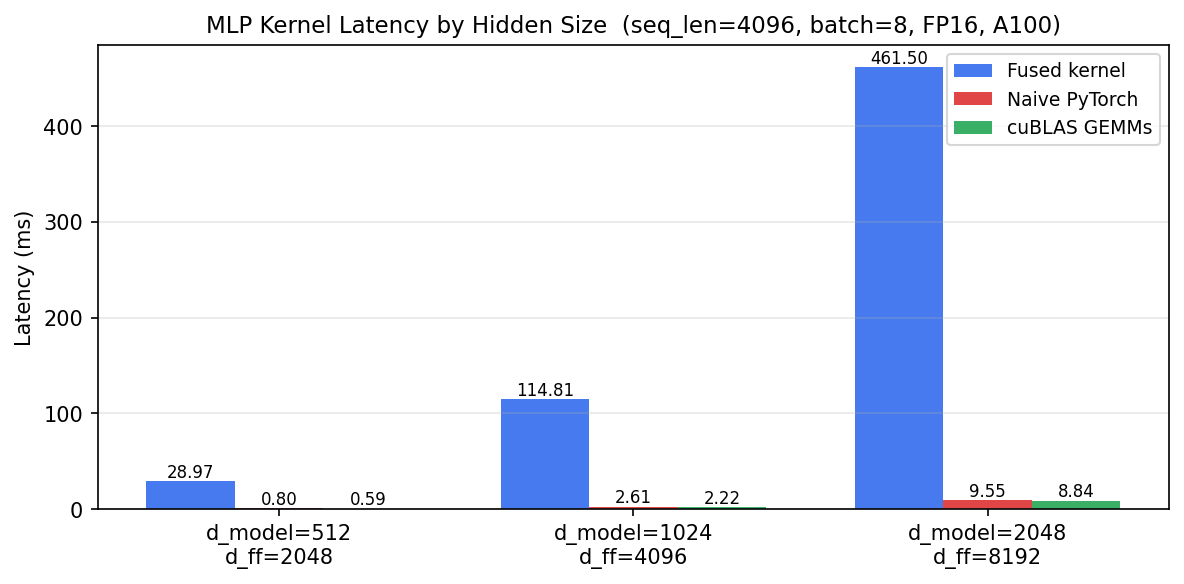
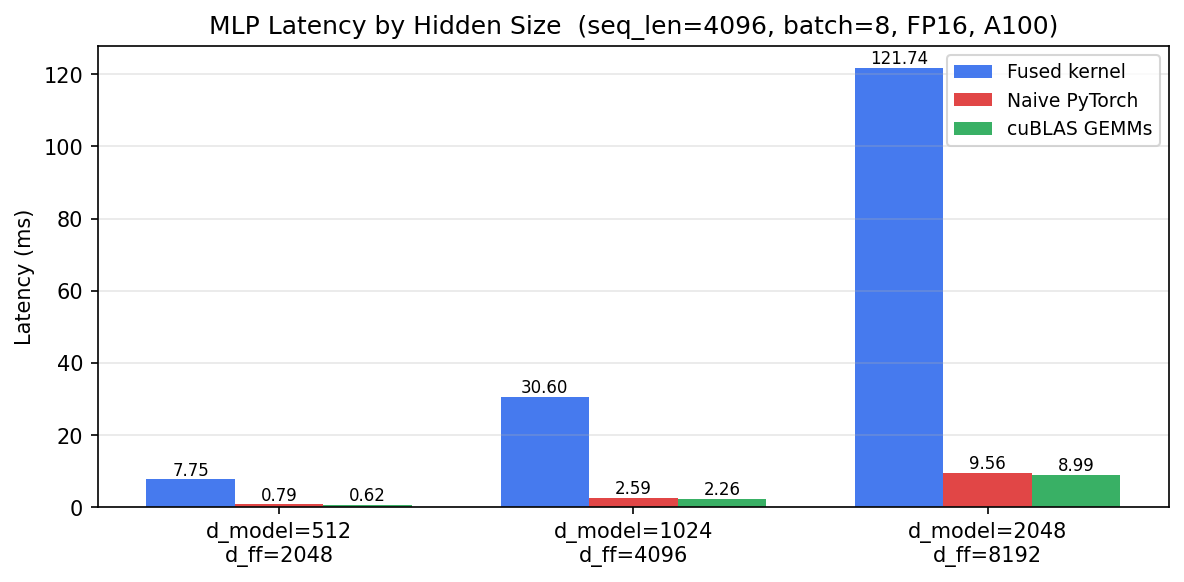
Port MLP kernel to WMMA

diff --git a/tests/test_mlp.py b/tests/test_mlp.py
@@ -10,8 +10,10 @@ naive baseline and cuBLAS (torch.mm).
 import os
 import sys
 import torch
+from torch.utils.cpp_extension import load
 
-sys.path.insert(0, os.path.join(os.path.dirname(__file__), ".."))
+ROOT = os.path.abspath(os.path.join(os.path.dirname(__file__), ".."))
+sys.path.insert(0, ROOT)
 from baseline import mlp_baseline, check_cuda
 from correctness import check_correctness
 from benchmark import benchmark
@@ -30,6 +32,19 @@ def compute_mlp_flops(batch, seq_len, d_model, d_ff):
     return gemm1 + gemm2
 
 
+def load_mlp_ext():
+    kernel_dir = os.path.join(ROOT, "kernels")
+    return load(
+        name="mlp_ext",
+        sources=[
+            os.path.join(kernel_dir, "mlp.cu"),
+            os.path.join(kernel_dir, "mlp_ext.cu"),
+        ],
+        extra_cuda_cflags=["-O3", "--std=c++17", "-arch=sm_80", "--use_fast_math"],
+        verbose=False,
+    )
+
+
 def main():
     check_cuda()
 
@@ -45,14 +60,13 @@ def main():
     # ── Reference ───────────────────────────────────────────────────────
     ref = mlp_baseline(x, W1, W2)
 
+    print("Compiling MLP WMMA extension...")
+    mlp_ext = load_mlp_ext()
+    print("Done.")
+
     # ── Your kernel ─────────────────────────────────────────────────────
-    # TODO: Replace this with your CUDA kernel once implemented.
-    #   from torch.utils.cpp_extension import load
-    #   mlp_module = load(name="mlp", sources=["kernels/mlp.cu"], verbose=True)
-    #   out = mlp_module.mlp_forward(x, W1, W2)
     print("\n=== Correctness ===")
-    print("[SKIP] MLP kernel not yet implemented — using baseline as placeholder")
-    out = mlp_baseline(x, W1, W2)  # placeholder
+    out = mlp_ext.mlp_forward(x, W1, W2)
     check_correctness(ref, out, label="fp16_mlp", mode="fp16")
 
     # ── Benchmark ───────────────────────────────────────────────────────
@@ -60,8 +74,7 @@ def main():
 
     naive_ms = benchmark(mlp_baseline, x, W1, W2)
 
-    # Your kernel (placeholder for now)
-    kernel_ms = benchmark(mlp_baseline, x, W1, W2)  # TODO: replace
+    kernel_ms = benchmark(mlp_ext.mlp_forward, x, W1, W2)
 
     # cuBLAS comparison: just the two GEMMs (no GELU), as upper bound
     x_2d = x.view(-1, d_model)

diff --git a/sweep.py b/sweep.py
@@ -80,7 +80,7 @@ def load_mlp_ext():
             os.path.join(kdir, "mlp.cu"),
             os.path.join(kdir, "mlp_ext.cu"),
         ],
-        extra_cuda_cflags=["-O2", "--std=c++17", "-arch=sm_80"],
+        extra_cuda_cflags=["-O3", "--std=c++17", "-arch=sm_80", "--use_fast_math"],
         verbose=False,
     )
 
@@ -255,12 +255,17 @@ def bench_int8(ext, batch, seq_len, d_model):
     x_i8,  sx  = quantize_to_int8(x)
     W1_i8, sW1 = quantize_to_int8(W1)
     W2_i8, sW2 = quantize_to_int8(W2)
+    x_deq  = x_i8.float().mul(sx).half()
+    W1_deq = W1_i8.float().mul(sW1).half()
+    W2_deq = W2_i8.float().mul(sW2).half()
 
     def run_int8():
         ext.int8_mlp_forward(x_i8, W1_i8, W2_i8, sx, sW1, sW2)
 
     kernel_ms = benchmark(run_int8)
-    naive_ms  = benchmark(mlp_baseline, x, W1, W2)   # FP16 baseline
+    # Fair FP16 reference for INT8: use the quantized/dequantized values that
+    # the INT8 path actually represents, not the original unquantized tensors.
+    naive_ms  = benchmark(mlp_baseline, x_deq, W1_deq, W2_deq)
 
     x_2d = x_i8.view(-1, d_model)
     def cublas_int8():

diff --git a/tests/test_int8.py b/tests/test_int8.py
@@ -114,7 +114,9 @@ def main():
     # ── Benchmark: INT8 MLP ─────────────────────────────────────────────
     print("\n=== Benchmark: INT8 MLP ===")
 
-    fp16_mlp_ms = benchmark(mlp_baseline, x, W1, W2)
+    # Fair FP16 reference for INT8: benchmark the same values that the INT8
+    # kernel sees after quantize/dequantize, not the original unquantized input.
+    fp16_mlp_ms = benchmark(mlp_baseline, x_deq, W1_deq, W2_deq)
 
     # Your INT8 kernel (placeholder)
     int8_mlp_ms = benchmark(mlp_baseline, x_deq, W1_deq, W2_deq)  # TODO: replace

diff --git a/profile_mlp.py b/profile_mlp.py
@@ -26,7 +26,7 @@ def load_mlp_ext():
             os.path.join(kernel_dir, "mlp.cu"),
             os.path.join(kernel_dir, "mlp_ext.cu"),
         ],
-        extra_cuda_cflags=["-O2", "--std=c++17", "-arch=sm_80"],
+        extra_cuda_cflags=["-O3", "--std=c++17", "-arch=sm_80", "--use_fast_math"],
         verbose=False,
     )
 
